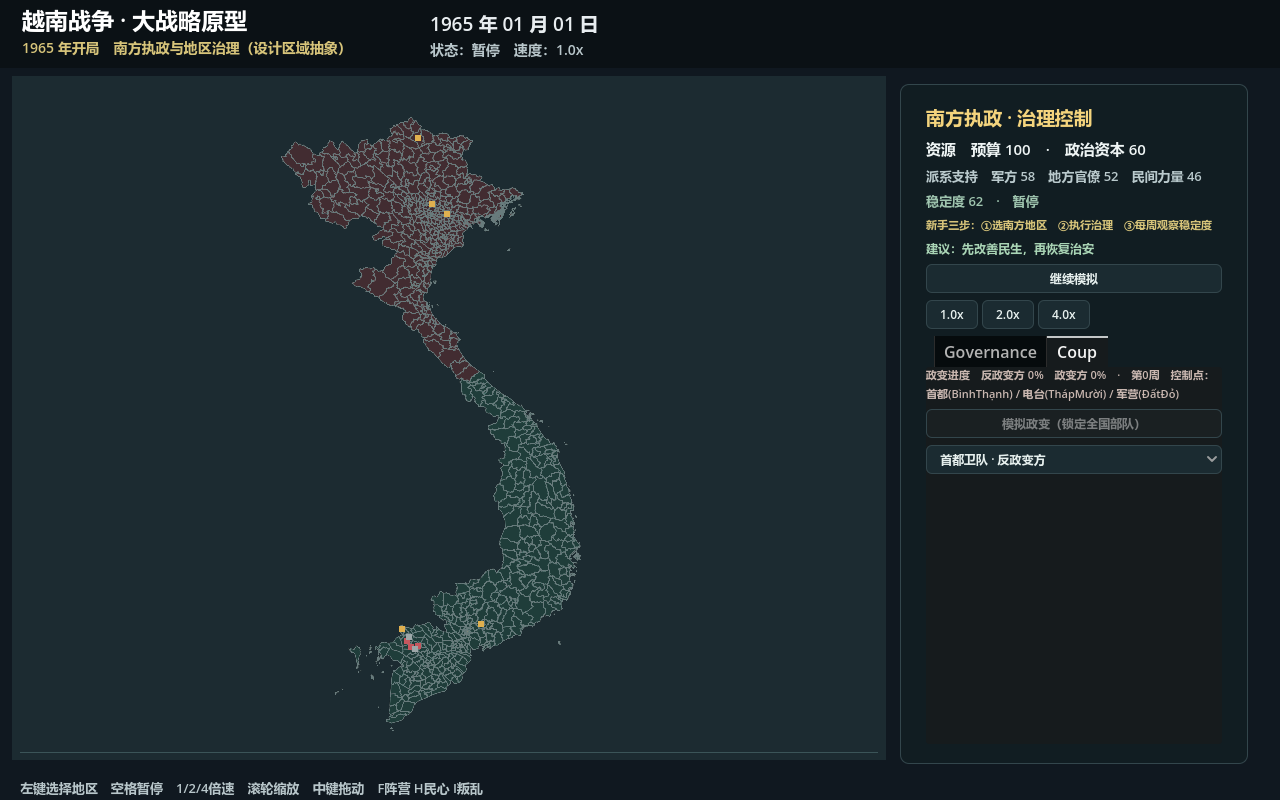
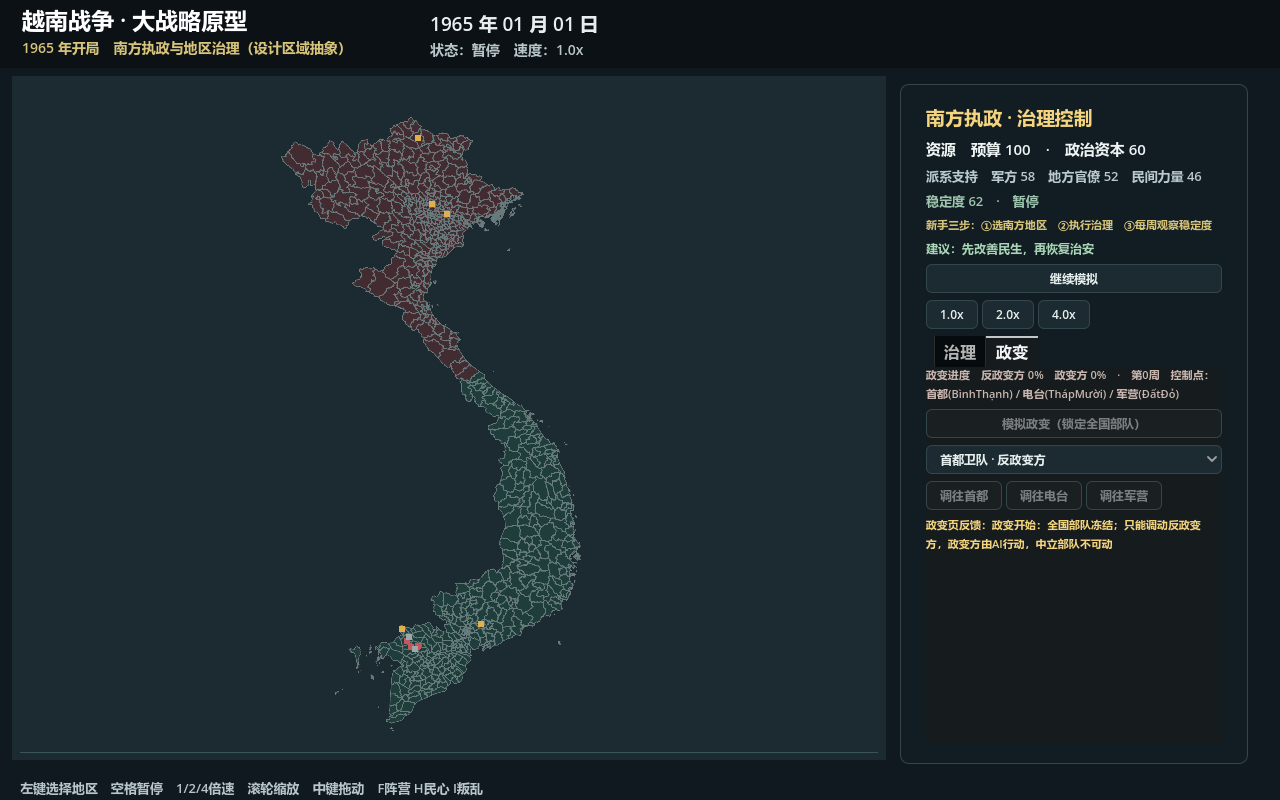
Add coup destination controls and Chinese tabs

Changed region(s): [[0.7188, 0.5938, 0.9375, 0.6875], [0.7188, 0.4062, 0.8438, 0.4688]]

diff --git a/docs/VERIFICATION.md b/docs/VERIFICATION.md
@@ -18,6 +18,6 @@
 
 性能验证：`--headless --path . --script res://tools/test_performance.gd` 在完整 710 地区上实测 `geometry_rebuild_ms=278.72`（主动重建成本）、缓存绘制命令 CPU 计时 P95 `28.00ms`，变换场景 CPU 计时 P95 `28.83ms`；这两个值不是旧版 FPS 对比。非 headless OpenGL Compatibility（NVIDIA GeForce RTX 3060 Laptop GPU）用 `tools/test_frame_performance.gd` 实测60个空闲帧 P50/P95 `16.67/17.53ms`，实际滚轮缩放与拖动路径60帧 P50/P95 `16.61/17.36ms`。地图现在只在加载、选择/行动或模式切换时更新 SubViewport 纹理，镜头变换只缩放/平移纹理；710 地区数据本身没有删减或降采样。
 
-上手与政变：右侧面板默认选中南方地区，提供三步引导、下一步建议、行动成本/效果和禁用原因；新增10支全国部队（政府5、政变3、中立2）。政变测试覆盖全国冻结、反政变方权限、政变方玩家越权拒绝、中立禁止、AI调集、反政变胜利解锁和政变方胜利失败。
+上手与政变：右侧面板默认选中南方地区，分为“治理/政变”两页签；治理页提供三步引导、下一步建议、行动成本/效果和禁用原因，政变页提供10支部队选择器、首都/电台/军营三个目的地按钮、移动提示和页内反馈。新增10支全国部队（政府5、政变3、中立2）。政变测试覆盖全国冻结、反政变方权限、政变方玩家越权拒绝、中立禁止、AI调集、三处控制点不同结果、反政变胜利解锁和政变方胜利失败。
 
 公开仓库：远端为 `git@github.com:myfines/fluffy-waddle.git`，当前 `master` 已推送到 commit `f7bba59`。由于本机 SSH 公钥认证失败，本次使用同一 GitHub 地址的一次性 HTTPS push 完成上传，origin 配置仍保持用户提供的 SSH 地址。仓库不包含未知许可的710轮廓、派生轮廓、exe、release 或 Godot缓存；干净 clone 使用许可明确的 `data/demo_regions.json` 启动。

diff --git a/README.md b/README.md
@@ -6,7 +6,7 @@
 
 操作：开局默认选中一个南方地区，按右侧“三步引导”即可上手；左键选区并查看阵营/地形/叛乱/支持/治安；空格暂停或继续；1、2、4 设置速度；滚轮缩放；中键拖动；M民生、S治安、P地方谈判；F/H/I切换阵营、民心、叛乱填色模式；“聚焦南方治理区”把镜头移到主要治理区域；Esc 退出。日期按模拟时间逐日推进，每周结算预算与政治资本，第28天触发双选事件。待决事件会暂停模拟，资源不足时选择不会被偷偷当成拒绝；军方支持或稳定度过低会倒台，稳定度达标并维持20周则成功。
 
-政变演示入口位于右侧“政变战局 · 全国部队”。平时可选择政府部队并点击目的地区调动；政变开始后全国部队先冻结，玩家只能调动反政变方，政变方由简单 AI 通过同一权限命令调集，中立部队不可动。右侧会显示双方进度、10支部队归属和三个控制点的实际地区名（首都、电台、军营）；反政变方获胜后部队解冻并归政府调度，政变方获胜则本局失败。
+政变演示入口位于右侧“政变”页签。平时可选择政府部队，再点“调往首都/电台/军营”或地图目的地区调动；政变开始后全国部队先冻结，玩家只能调动反政变方，政变方由简单 AI 通过同一权限命令调集，中立部队不可动。右侧会显示双方进度、10支部队归属和三个控制点的实际地区名；反政变方获胜后部队解冻并归政府调度，政变方获胜则本局失败。
 
 南北分类采用游戏简化规则：地区中心纬度 `>= 17°N` 视为北方外压，其余视为南方可治理。这是为了保证原型中的治理边界稳定，不能当作历史行政边界或历史精确复原。
 
